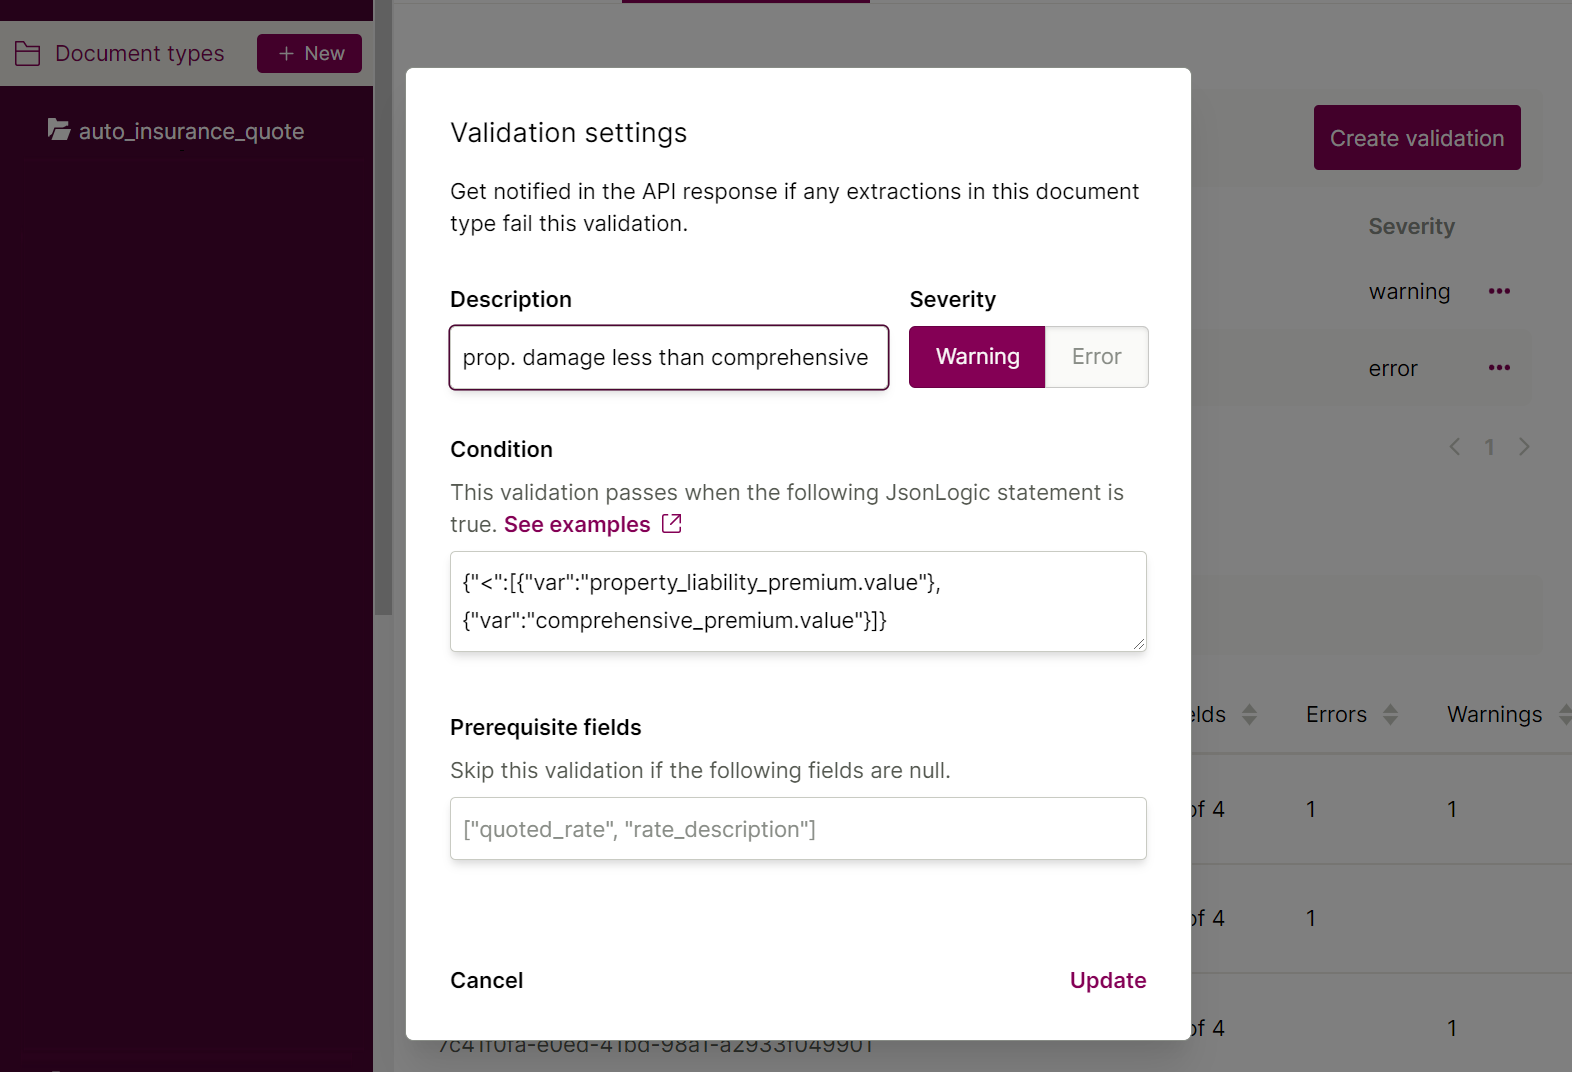
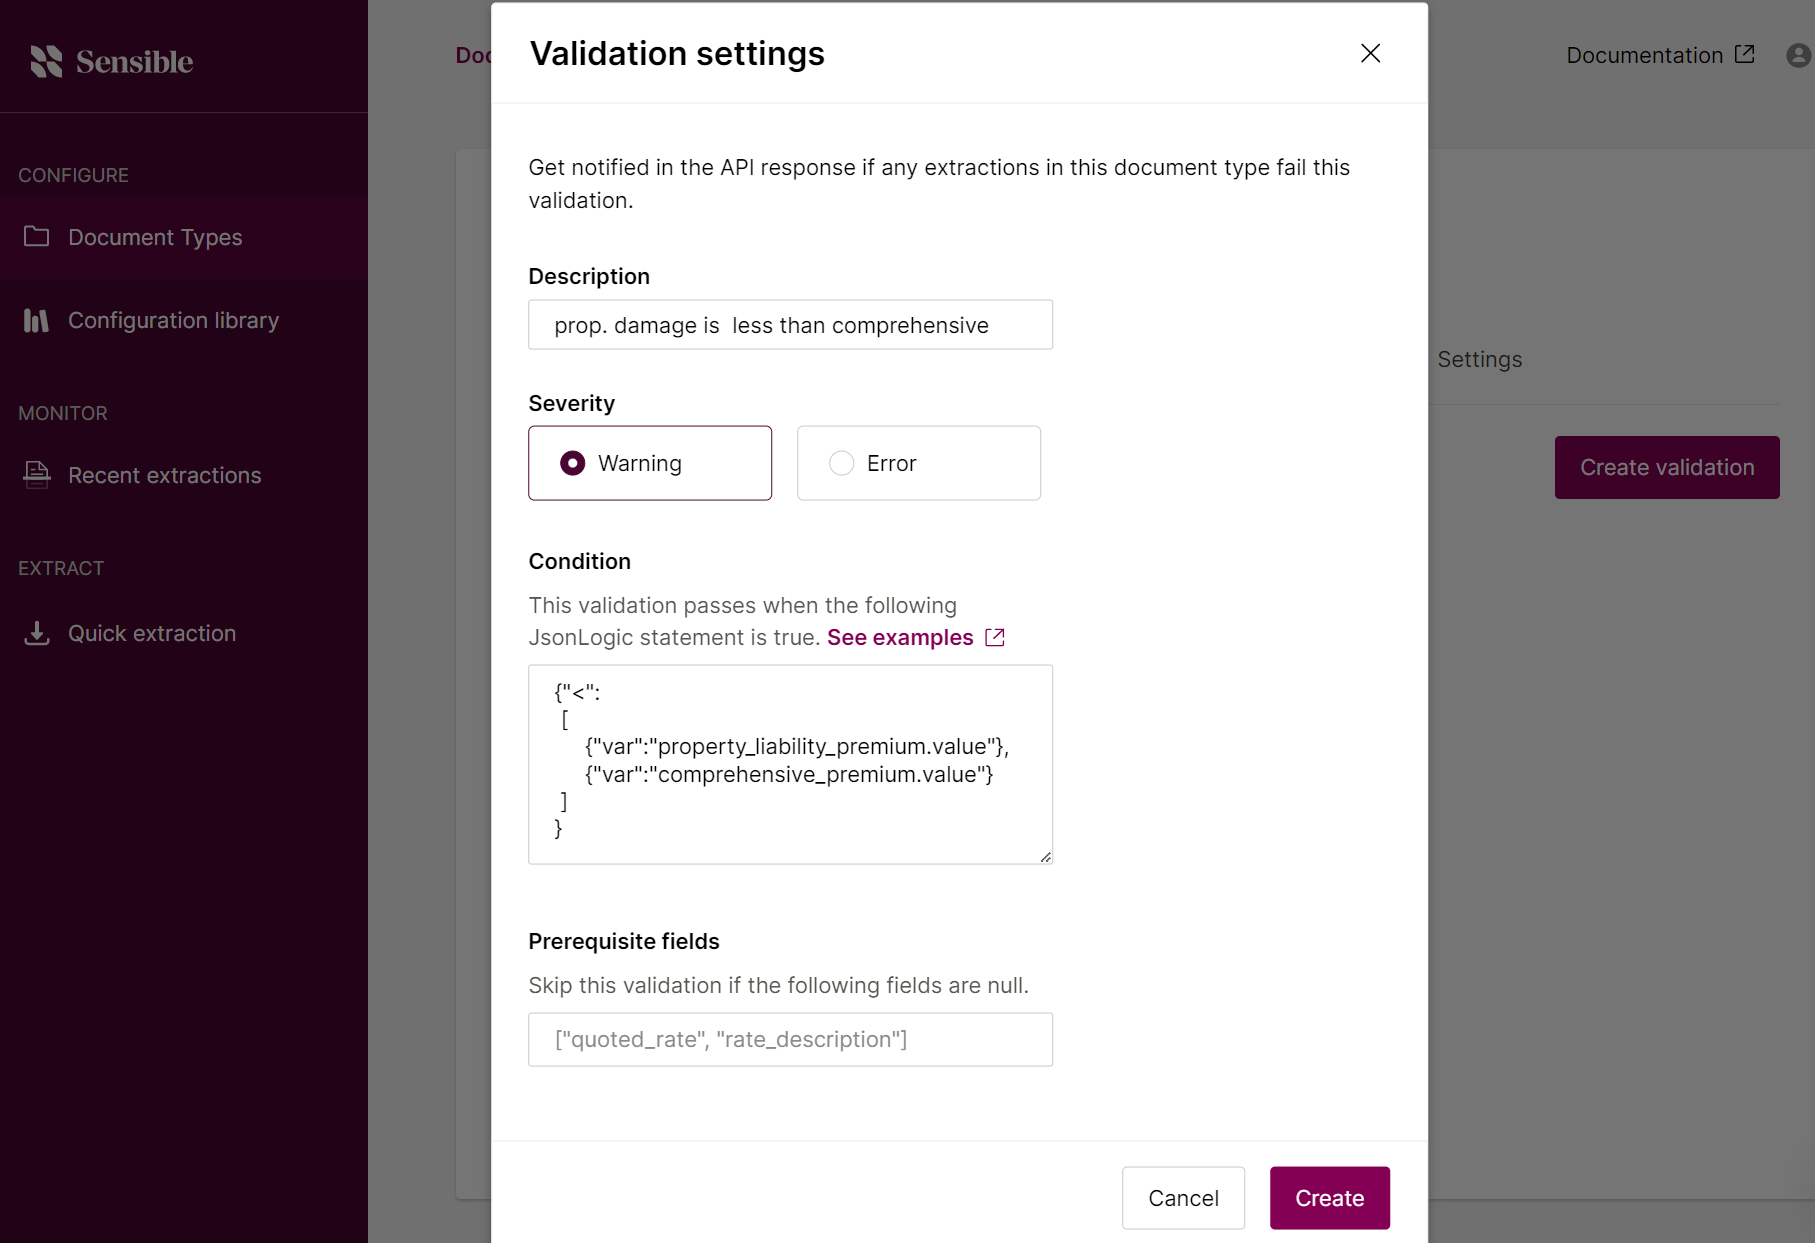
screenshot rot for new nav

diff --git a/readme-sync/v0/welcome/1500 - excel-quickstart.md b/readme-sync/v0/welcome/1500 - excel-quickstart.md
@@ -27,7 +27,7 @@ Extract sample document data
    | Example PDF | [Download link](https://github.com/sensible-hq/sensible-configuration-library/raw/main/tax_forms/1040/2021/1040_2021_sample.pdf) |
    | ----------- | ------------------------------------------------------------ |
 
-8. Navigate to the [quick extraction](https://app.sensible.so/library/) tab.
+8. Navigate to the [quick extraction](https://app.sensible.so/quick-extraction/) tab.
 
 9. Upload the document you downloaded in the previous step.
 
@@ -41,7 +41,7 @@ Convert to spreadsheet
 ----
 
 
-11. Select **Download Excel** to convert the extracted document data to Excel.
+11. Click the **Download** icon to convert the extracted document data to Excel.
 
 ![Click to enlarge](https://raw.githubusercontent.com/sensible-hq/sensible-docs/main/readme-sync/assets/v0/images/final/quickstart_excel_2.png)
 

diff --git a/readme-sync/v0/welcome/2000 - getting-started.md b/readme-sync/v0/welcome/2000 - getting-started.md
@@ -537,7 +537,7 @@ To add these tests:
 
 1. In the **auto_insurance_quote** document type, click **Create validation**. Add the following input to the dialog:
    - Set the **Severity** to **Warning**
-   - Set the **Description** to "prop. damage less than comprehensive"
+   - Set the **Description** to "prop. damage is less than comprehensive"
    - Set the **Condition** to:
 
 ```json
